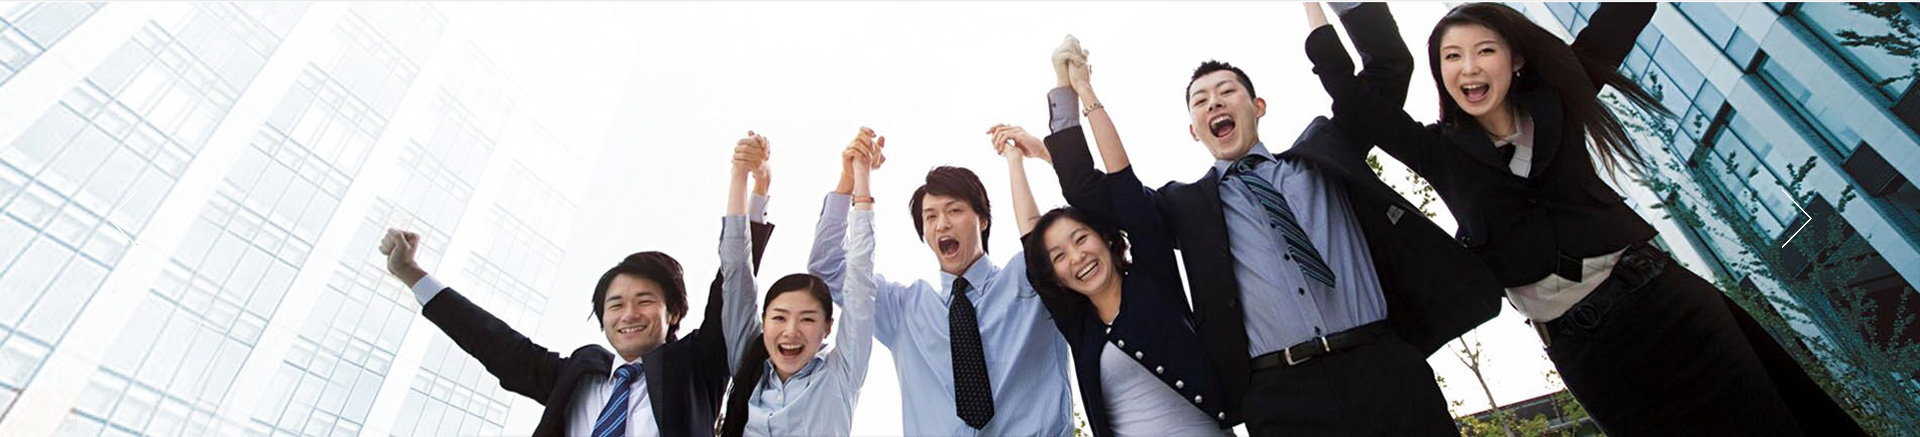
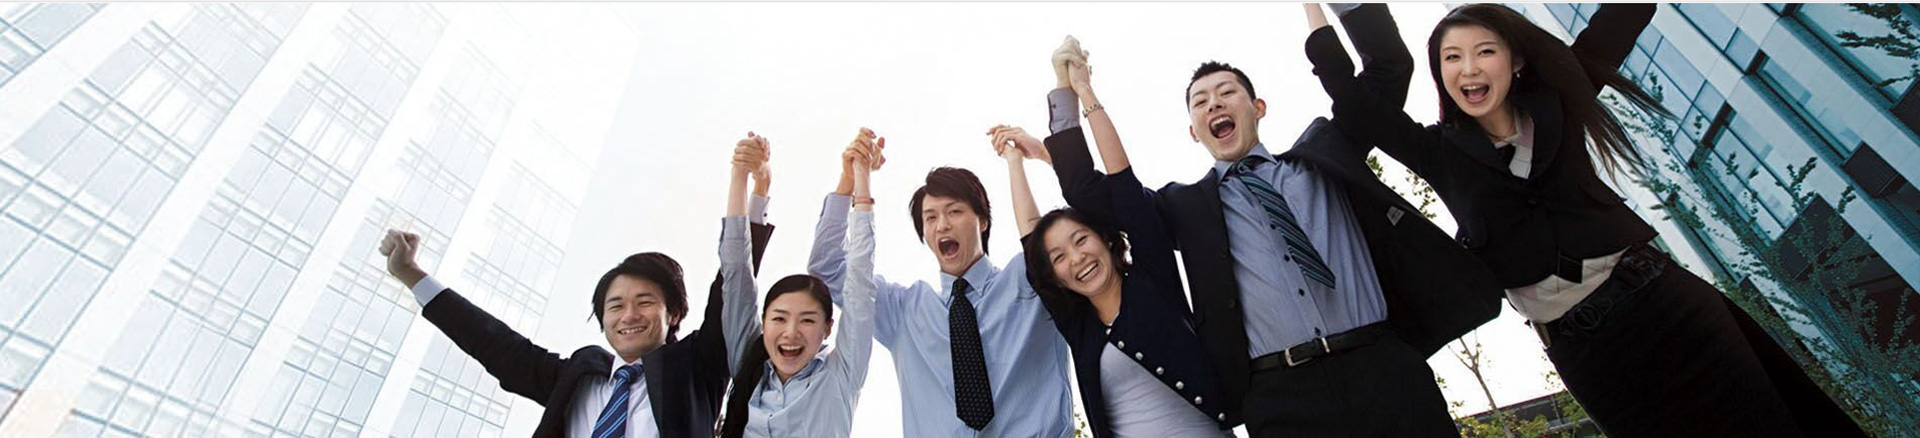
活动列表页面banner增加翻页箭头

diff --git a/app/huodongliebiao.html b/app/huodongliebiao.html
@@ -151,7 +151,7 @@
             <div id="" class="owl-carousel owl-theme huodong-banner">
                 <div class="item">
                     <a href="">
-                        <img src="images/j01.jpg" alt="Pic1">
+                        <img class="img-responsive" src="images/j01.jpg" alt="Pic1">
                         <div class="title">
                             <div class="container">
                                 <p>解决企业人才用工之困</p>
@@ -162,7 +162,7 @@
                 </div>
                 <div class="item">
                     <a href="">
-                        <img src="images/j01.jpg" alt="Pic1">
+                        <img class="img-responsive" src="images/j01.jpg" alt="Pic1">
                         <div class="title">
                             <div class="container">
                                 <p>解决企业人才用工之困</p>
@@ -173,7 +173,7 @@
                 </div>
                 <div class="item">
                     <a href="">
-                        <img src="images/j01.jpg" alt="Pic1">
+                        <img  class="img-responsive" src="images/j01.jpg" alt="Pic1">
                         <div class="title">
                             <div class="container">
                                 <p>解决企业人才用工之困</p>
@@ -590,7 +590,7 @@
     (function($) {
         $(document).ready(function() {
             $('.owl-carousel ').owlCarousel({
-                navigation: false, // Show next and prev buttons
+                navigation: true, // Show next and prev buttons
                 slideSpeed: 300,
                 paginationSpeed: 400,
                 singleItem: true,

diff --git a/app/styles/main.scss b/app/styles/main.scss
@@ -2397,6 +2397,29 @@ $body-bg: #f7f7f7 !default;
     .owl-controls {
         position: absolute;
         top: 50%;
-        margin-top: -10px;
+        margin-top: -40px;
+        width: 100%;
+        .owl-buttons {
+            position: relative;
+            width: 100%;
+            .owl-prev,
+            .owl-next {
+                position: absolute;
+                border-radius: 0px;
+                width: 31px;
+                height: 61px;
+                text-align: center;
+                background-color: transparent;
+                padding: 0;
+            }
+            .owl-prev {
+                left: 100px;
+                background: url(../images/p18.png) no-repeat center center;
+            }
+            .owl-next {
+                right: 100px;
+                background: url(../images/p19.png) no-repeat center center;
+            }
+        }
     }
 }
